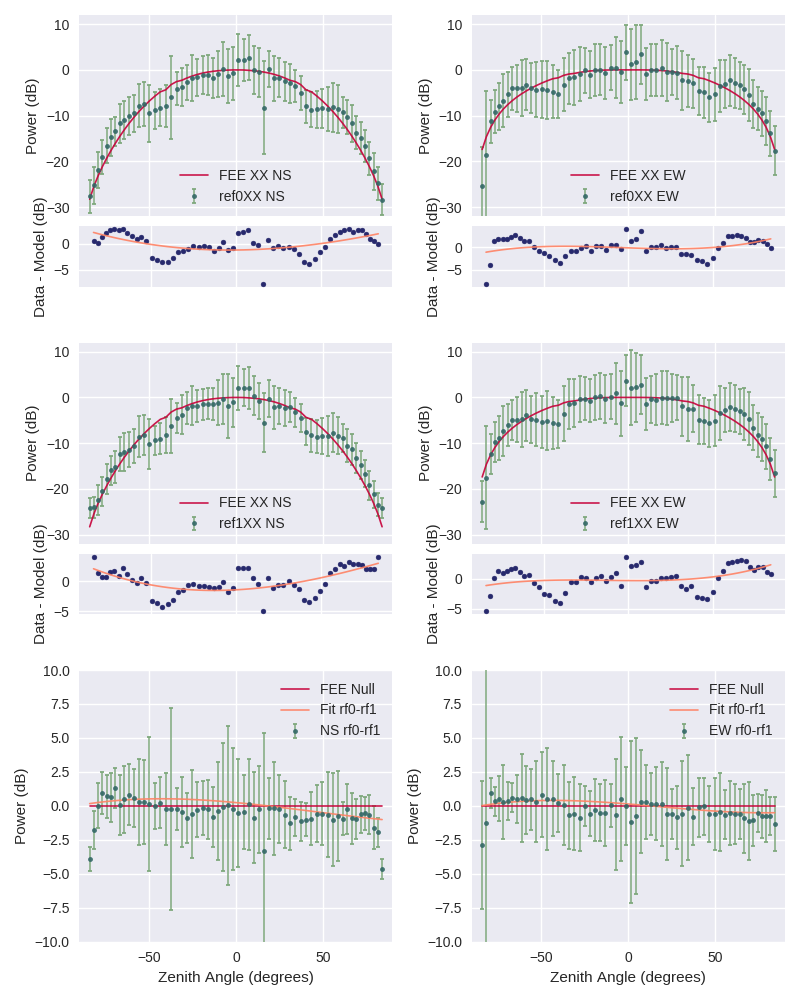
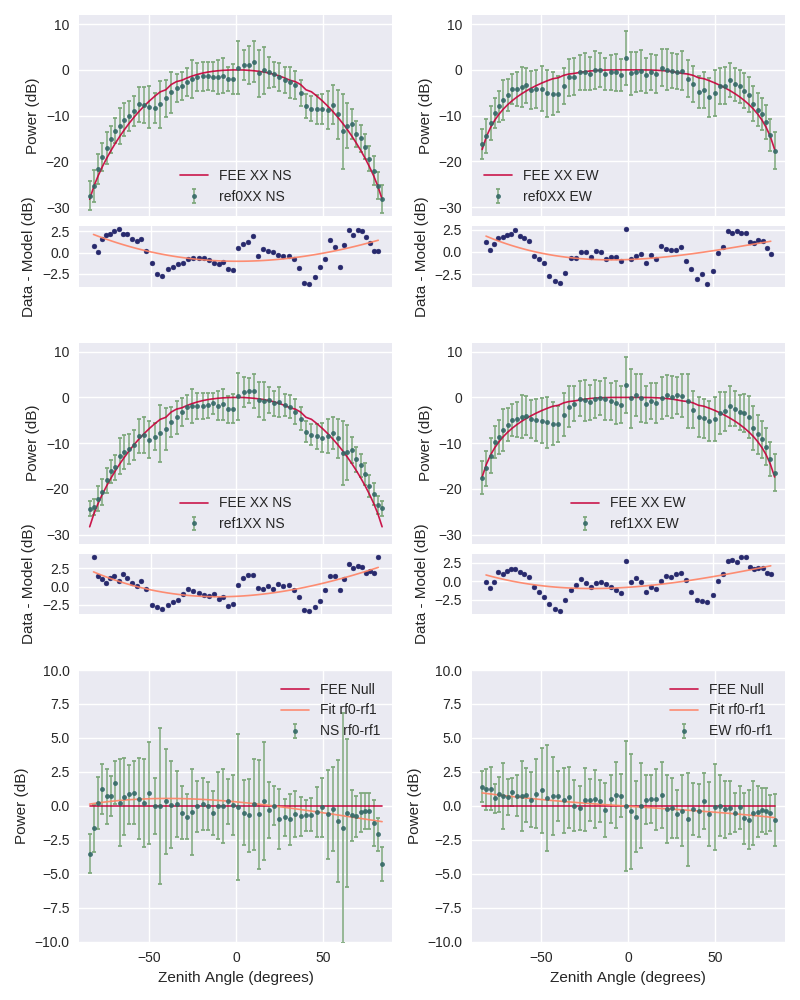
New nul tests using S35 tile

diff --git a/code/tile_maps/null_test.py b/code/tile_maps/null_test.py
@@ -318,10 +318,10 @@ if __name__=='__main__':
     out_dir.mkdir(parents=True, exist_ok=True)
     
     ref_tiles = [
-            'S07XX_rf0XX_sat_maps.npz', 
-            'S07YY_rf0YY_sat_maps.npz', 
-            'S07XX_rf1XX_sat_maps.npz', 
-            'S07YY_rf1YY_sat_maps.npz'
+            'S35XX_rf0XX_sat_maps.npz', 
+            'S35YY_rf0YY_sat_maps.npz', 
+            'S35XX_rf1XX_sat_maps.npz', 
+            'S35YY_rf1YY_sat_maps.npz'
             ]
     good_rf0XX = rotate(nside, angle=+(1*np.pi)/4.0, healpix_array=np.asarray(good_maps(ref_tiles[0])))
     good_rf0YY = rotate(nside, angle=+(1*np.pi)/4.0, healpix_array=np.asarray(good_maps(ref_tiles[1])))
